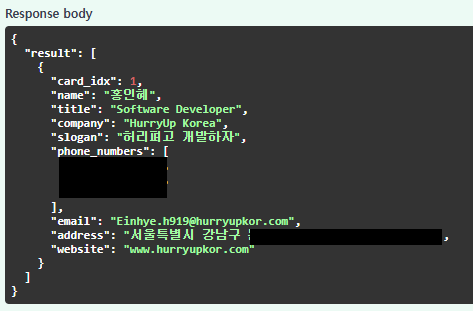
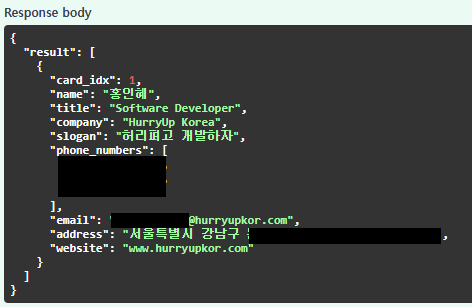
modify

Changed region(s): [[0.0, 0.0293, 1.0, 0.9967], [0.0888, 0.2345, 0.5328, 0.645], [0.0888, 0.645, 0.9471, 0.8208]]

diff --git a/README.md b/README.md
@@ -1,7 +1,7 @@
 # Bizcard OCR + GPT Demo
 
 This project demonstrates a simplified and modularized version of a business card information extraction pipeline,  
-based on a team project I participated in during my time at work.
+inspired by a team project I contributed to at work.
 
 It has been rebuilt using mock data and publicly available APIs (e.g., Google Vision, OpenAI) to ensure reusability and shareability.
 
